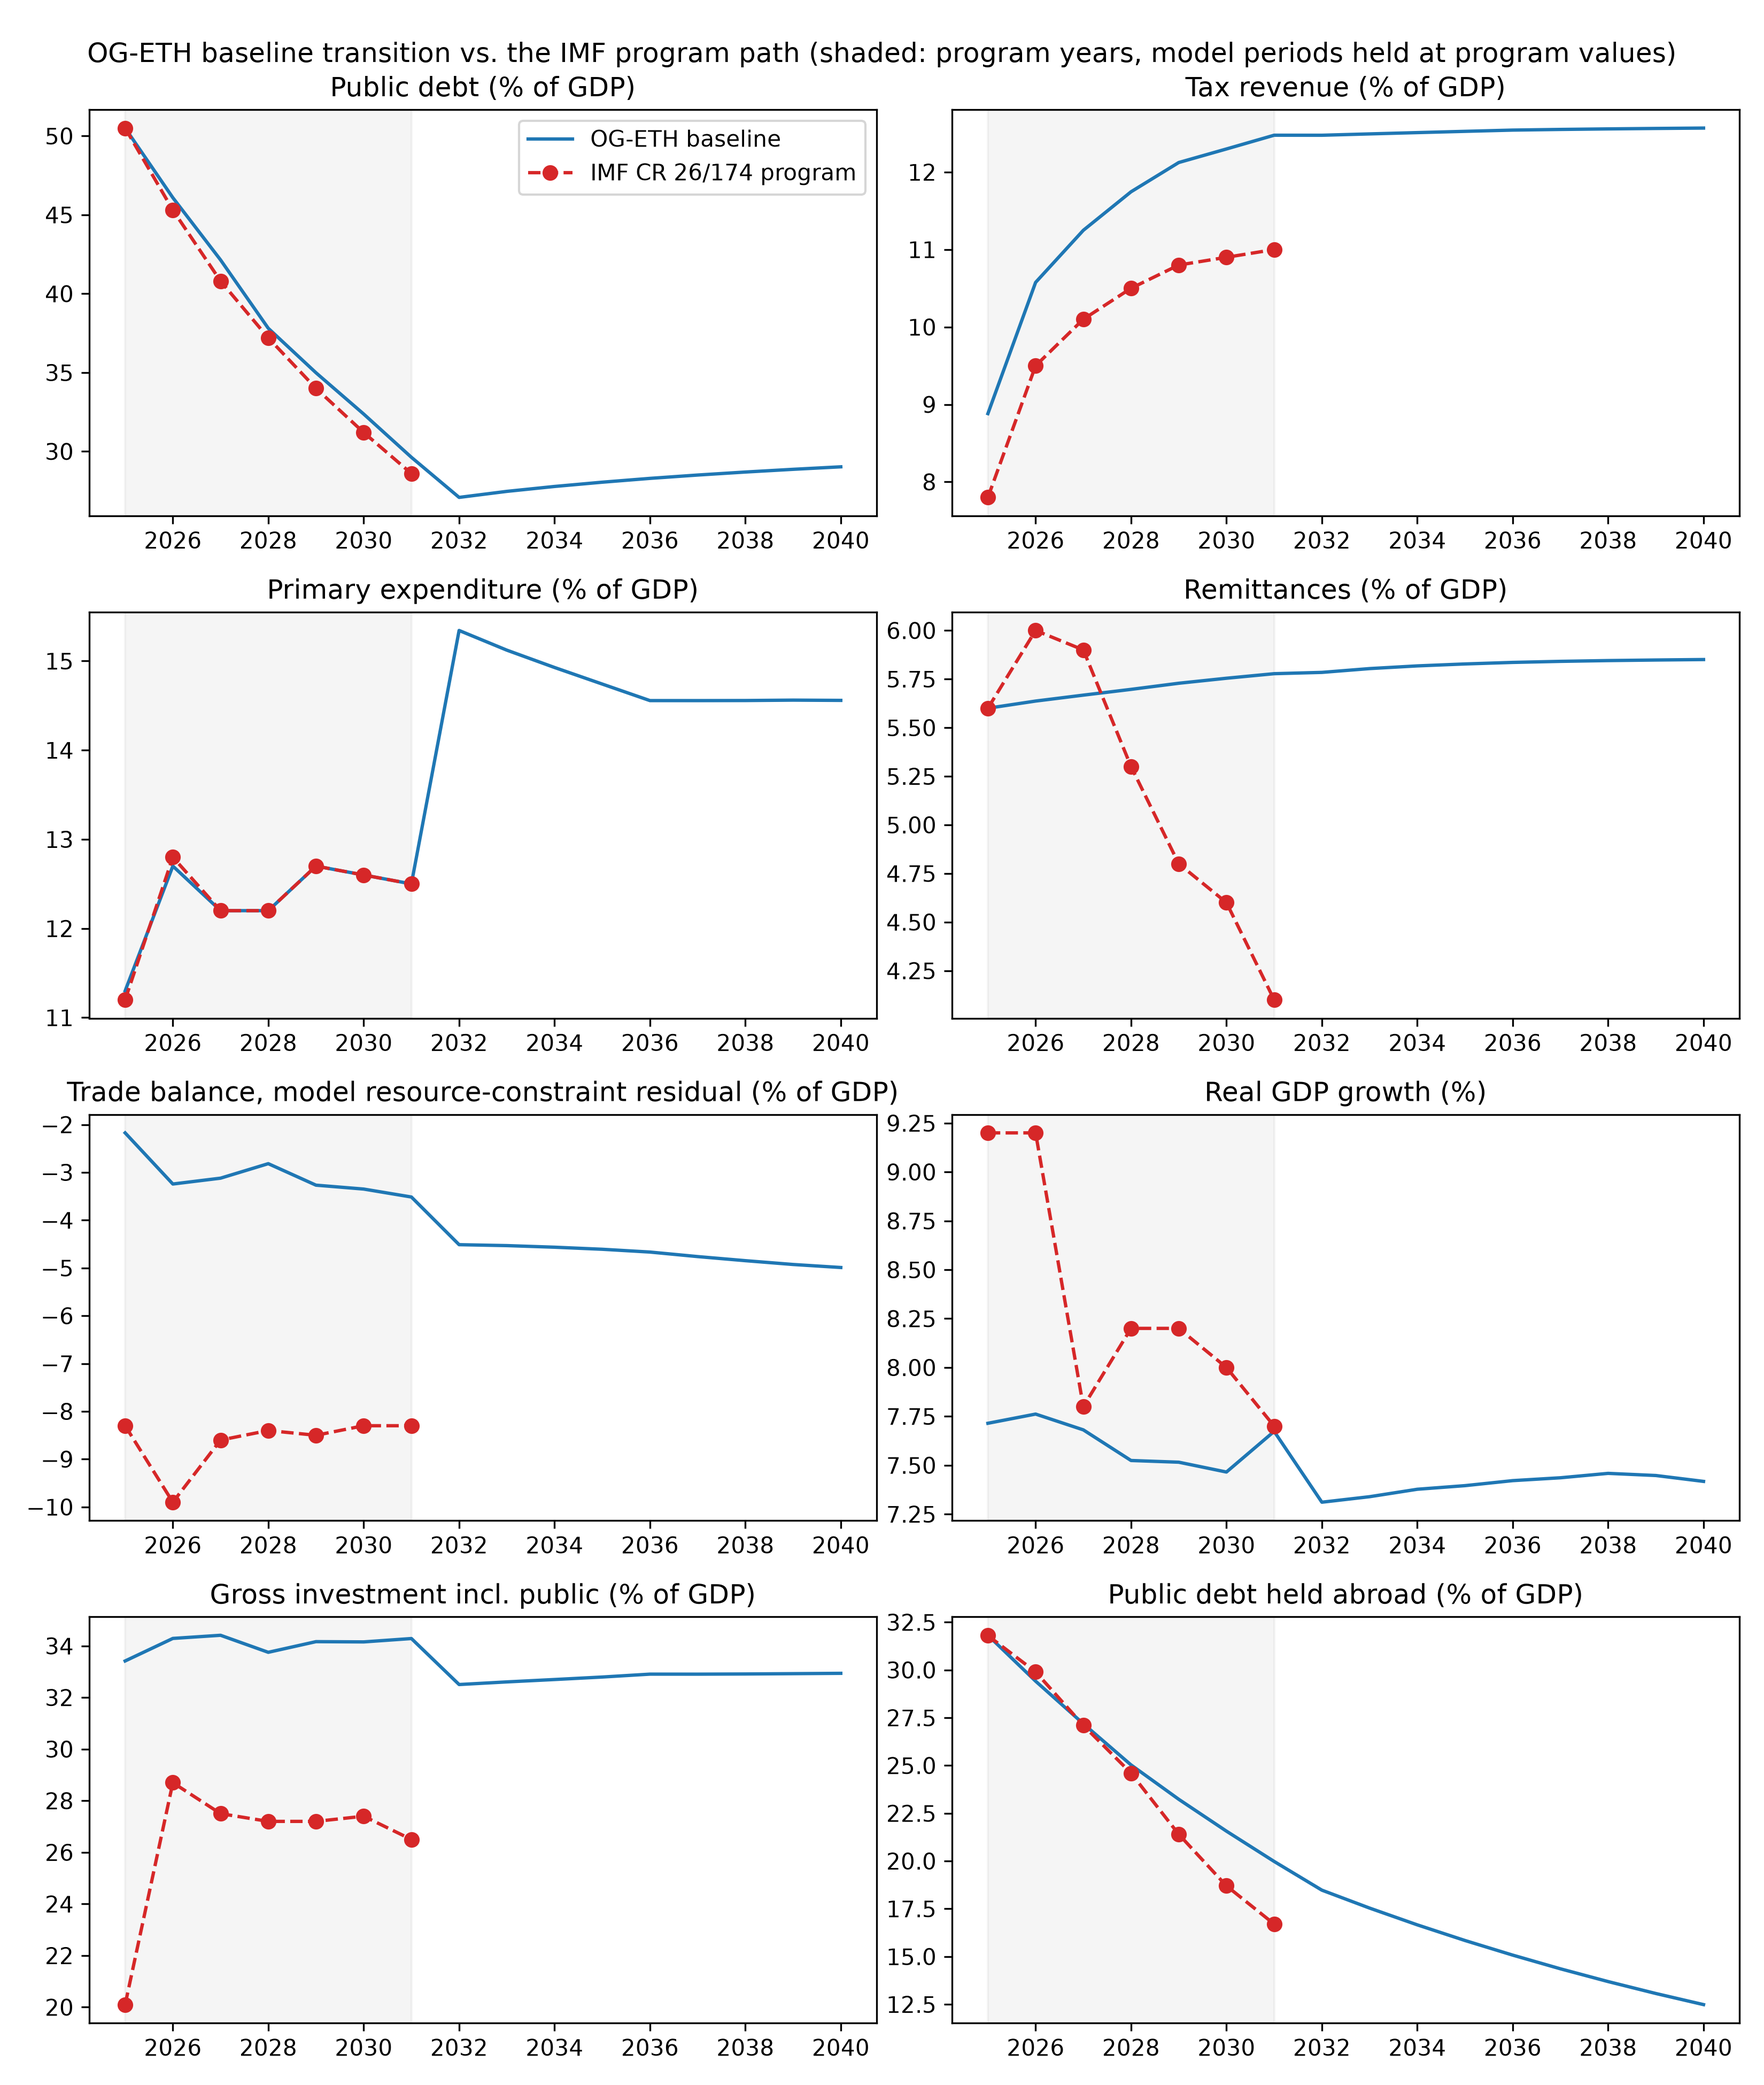
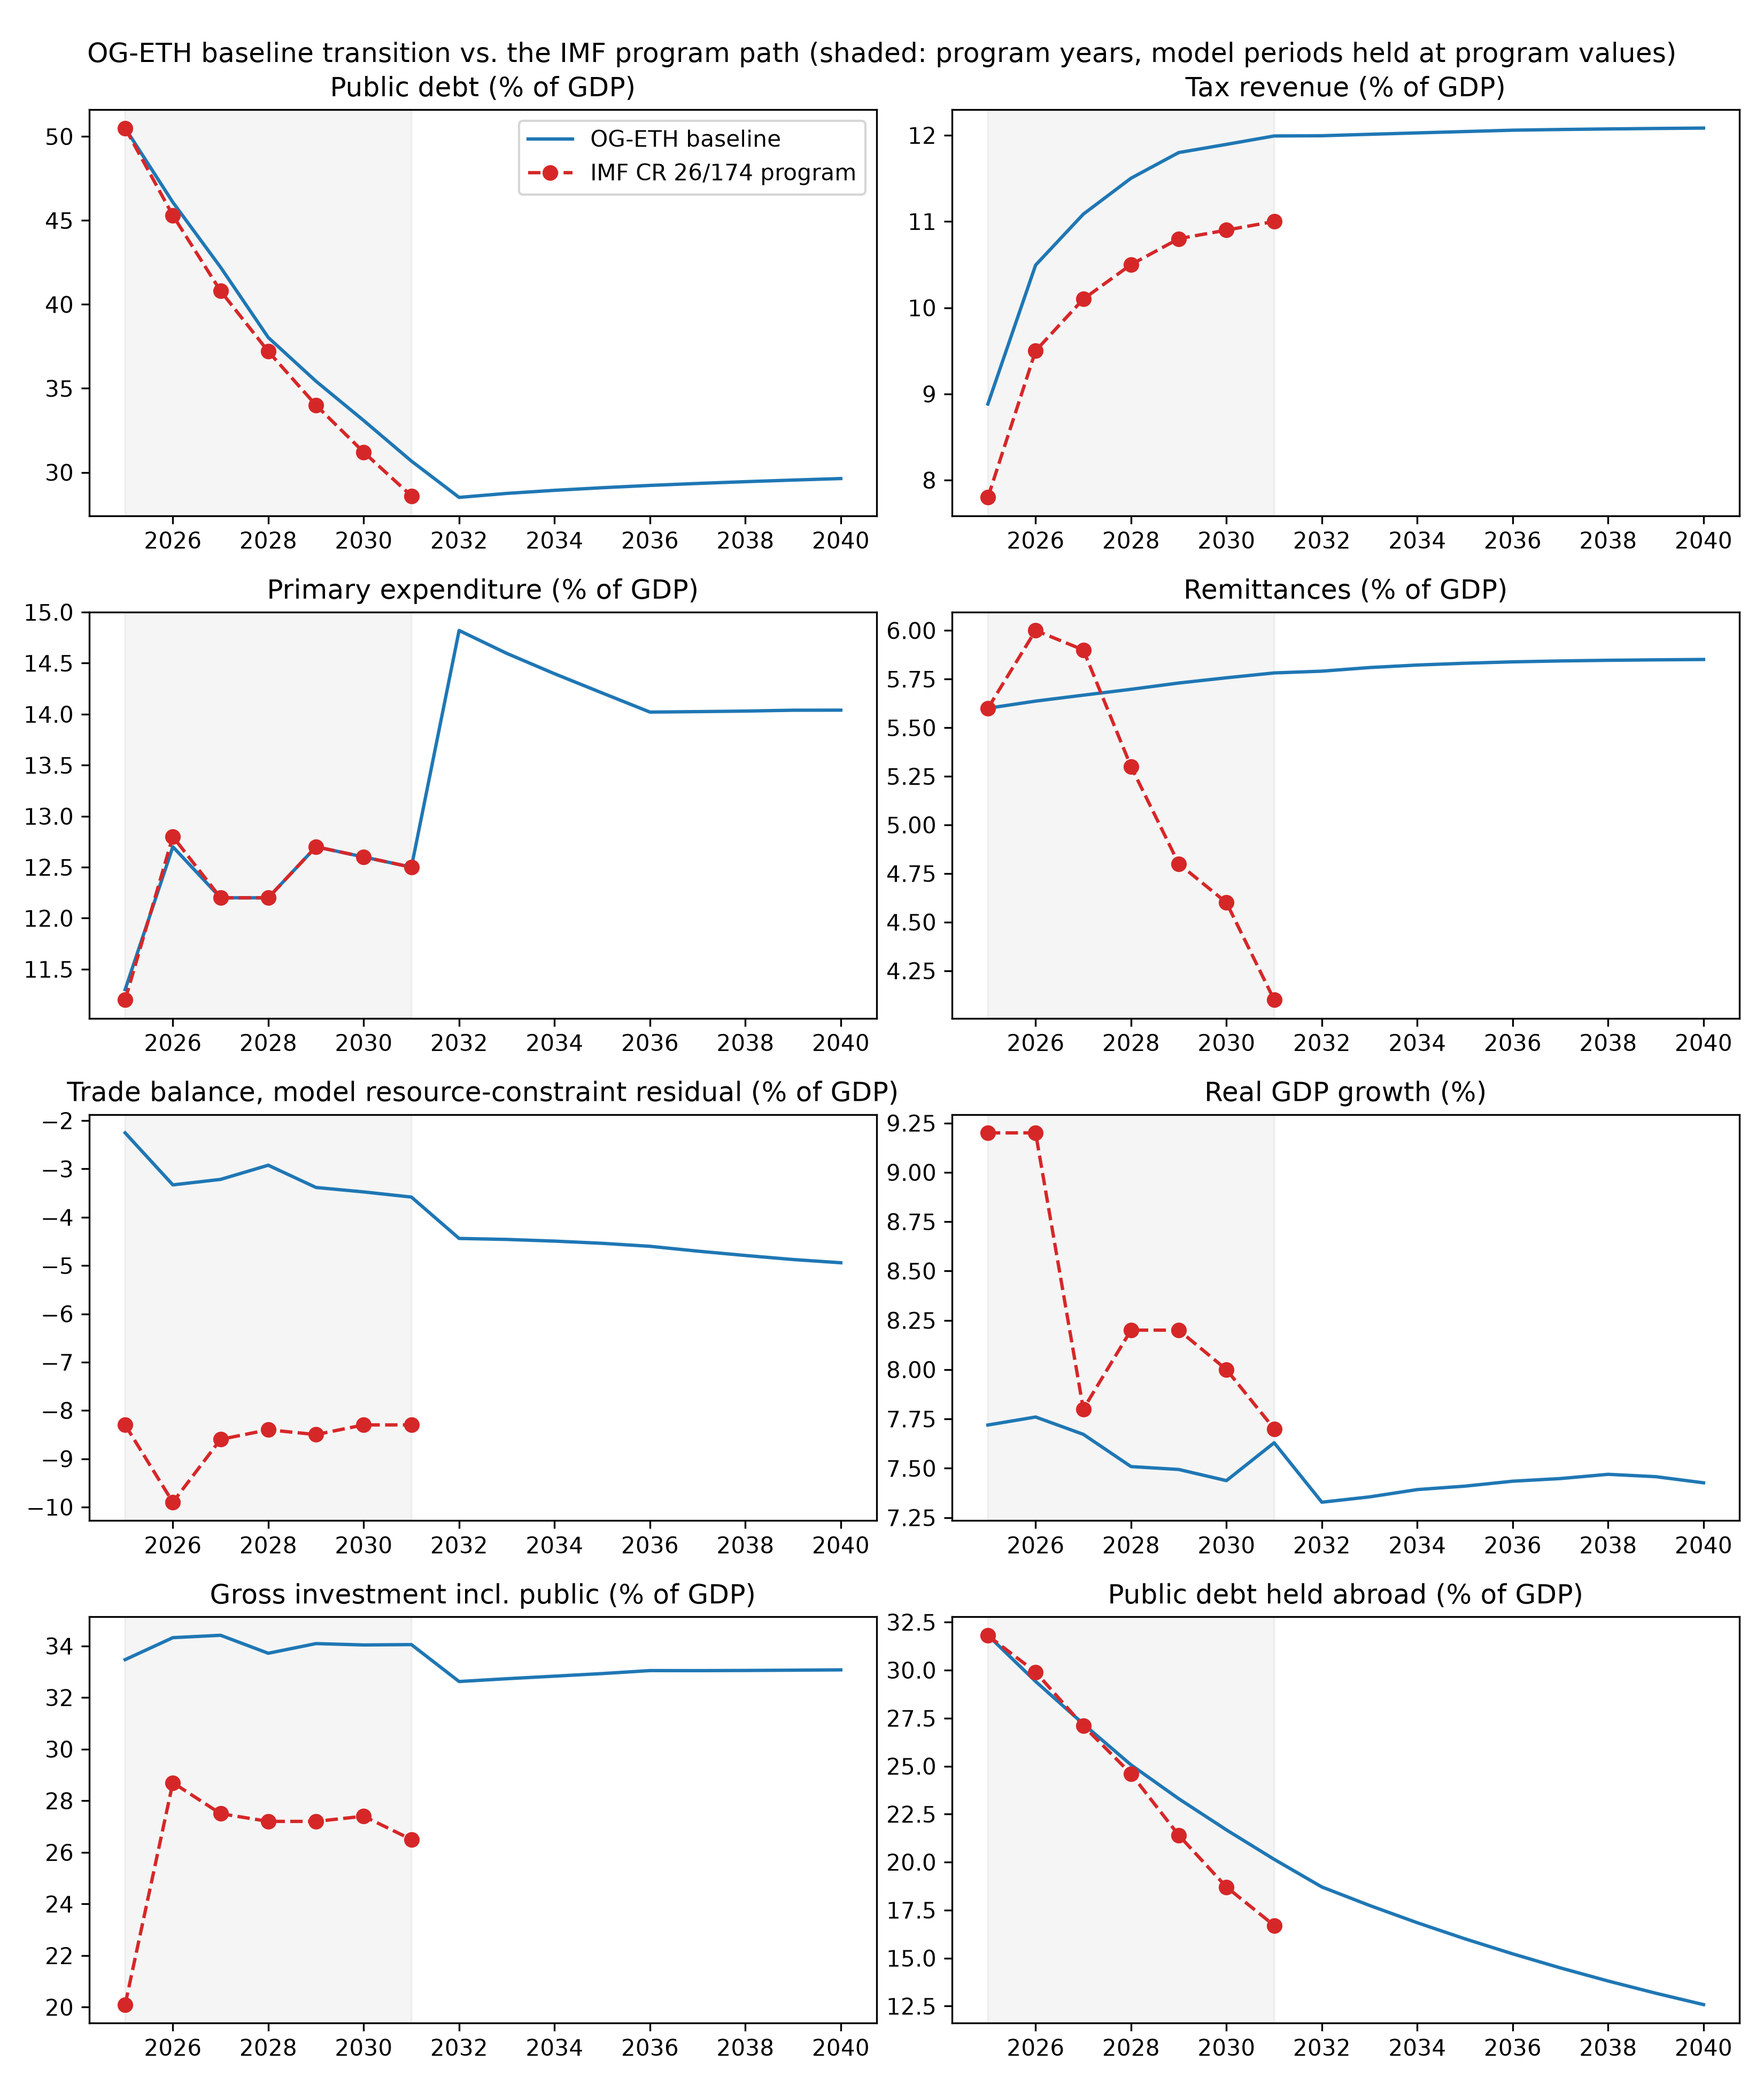
Refresh the validation table to the final run

diff --git a/docs/book/content/calibration/macro.md b/docs/book/content/calibration/macro.md
@@ -151,13 +151,13 @@ Most of the parameters on this page are only weakly identified from the data on 
 
 | Steady-state moment | OG-ETH baseline | Ethiopia data | Data source |
 |:---|:---:|:---:|:---|
-| Government debt $D/Y$ | 0.30; path 50.5 → 30.3% by FY2030/31 | 0.30 (long-run target); 50.5 → 28.6% (FY2024/25 → FY2030/31) | IMF CR 26/174, Table 1 |
-| Foreign-held debt share $D_f/D$ | 0.15; external debt 31.8 → 19.9% of GDP by FY2030/31 | 0.63 (FY2024/25); external debt 31.8 → 16.7% | IMF CR 26/174, Table 1 |
+| Government debt $D/Y$ | 0.30; path 50.5 → 30.7% by FY2030/31 | 0.30 (long-run target); 50.5 → 28.6% (FY2024/25 → FY2030/31) | IMF CR 26/174, Table 1 |
+| Foreign-held debt share $D_f/D$ | 0.15; external debt 31.8 → 20.1% of GDP by FY2030/31 | 0.63 (FY2024/25); external debt 31.8 → 16.7% | IMF CR 26/174, Table 1 |
 | Real effective rate on public debt $r_{gov}$ | −3.2 to −1.2% through FY2030/31; 2.0% long run | negative through FY2030/31 (5.2% nominal on the stock vs 8.6% deflator); ~0.8% on new external commitments | IMF CR 26/174; MoF Bulletin 56 |
 | Tax revenue $T/Y$ | 0.121; path 8.9 → 12.0% | 0.110 (FY2030/31 program); 7.8 → 11.0% | IMF CR 26/174, Table 2b |
-| Personal income tax / $Y$ | 0.014 | 0.014 (FY2024/25) | IMF SIP 2025/108 |
-| Corporate income tax / $Y$ | 0.029 | 0.017 (FY2024/25); a third of the program's revenue gains allocated here | IMF SIP 2025/108; assumption |
-| Consumption taxes / $Y$ | 0.060 | 0.039 (FY2024/25) plus two thirds of the program's revenue gains | IMF CR 26/174; assumption |
+| Personal income tax / $Y$ | 0.026; path 1.4 → 2.6% with formalization | 0.014 (FY2024/25) | IMF SIP 2025/108 |
+| Corporate income tax / $Y$ | 0.026; path 1.9 → 2.7% | 0.017 (FY2024/25); a third of the program's revenue gains allocated here | IMF SIP 2025/108; assumption |
+| Consumption taxes / $Y$ | 0.051; path 3.9 → 4.9% | 0.039 (FY2024/25) plus two thirds of the program's revenue gains | IMF CR 26/174; assumption |
 | Government consumption $G/Y$ | 0.073 (closure) | 0.059 (FY2030/31, recurrent net of interest and cash transfers) | IMF CR 26/174, Table 2b |
 | Cash transfers $TR/Y$ | 0.015 | 0.015 (FY2026/27 onward) | IMF CR 26/174 |
 | Public investment $I_g/Y$ | 0.051 | 0.051 (FY2030/31) | IMF CR 26/174, Table 2b |
@@ -169,10 +169,10 @@ Most of the parameters on this page are only weakly identified from the data on 
 | Total investment $(I+I_g)/Y$ | 0.33 | 0.20 (FY2024/25); 0.27 (program, FY2030/31) | IMF CR 26/174, Table 1 |
 | Private consumption $C/Y$ | 0.65 | 0.81 (FY2024/25; BGP ~0.65–0.70) | WDI `NE.CON.PRVT.ZS` |
 | Trade balance $NX/Y$ | −0.059 (−0.03 to −0.035 along the program) | −0.083 (goods and services, FY2024/25 and FY2030/31) | IMF CR 26/174, Table 4b |
-| Real return on capital $r$ | 0.068 | high (capital-scarce); FDI return in Africa 6.3% | model-implied MPK; UNCTAD |
-| Real GDP growth | 7.9 → 7.6% over the program | 9.2 → 7.7% | IMF CR 26/174, Table 1 |
+| Real return on capital $r$ | 0.070 | high (capital-scarce); FDI return in Africa 6.3% | model-implied MPK; UNCTAD |
+| Real GDP growth | 7.4–7.8% over the program | 9.2 → 7.7% | IMF CR 26/174, Table 1 |
 
-**What matches.**  The fiscal block is internally consistent and on the data.  The transition ({numref}`CalibVsProgram`) reproduces the program's primary expenditure exactly, its tax revenue to within a point of GDP (the model's FY2024/25 base is a point above the IMF's tax line and follows the same increments), its external debt ratio to within three points, and — with the sovereign rate on the program-implied negative real rates — **its debt ratio to within two points of GDP in every program year**, landing at 30.3 percent in FY2030/31 against 28.6, and at the 30 percent target thereafter without a jump.  Real growth runs 7.6–7.9 percent against the program's 7.7–9.2; the remittance share holds at 5.6–5.7 percent.  The capital block sits on its anchors: the capital-output ratio starts at 2.1 and settles at 2.4 against the Penn World Table's 2.2, the foreign-owned capital stock at 0.20–0.22 of GDP against the 0.24 FDI stock, and household wealth starts at the 2.15 the data imply.
+**What matches.**  The fiscal block is internally consistent and on the data.  The transition ({numref}`CalibVsProgram`) reproduces the program's primary expenditure exactly, its tax revenue to within a point of GDP (the model's FY2024/25 base is a point above the IMF's tax line and follows the same increments), its external debt ratio to within three points, and — with the sovereign rate on the program-implied negative real rates — **its debt ratio to within two points of GDP in every program year**, landing at 30.7 percent in FY2030/31 against 28.6, and at the 30 percent target thereafter without a jump.  Real growth runs 7.4–7.8 percent against the program's 7.7–9.2; the remittance share holds at 5.6–5.7 percent.  The capital block sits on its anchors: the capital-output ratio starts at 2.1 and settles at 2.4 against the Penn World Table's 2.2, the foreign-owned capital stock at 0.20–0.22 of GDP against the 0.24 FDI stock, and household wealth starts at the 2.15 the data imply.
 
 **What does not, and why.**  Two gaps remain.  *Investment* is 33–34 percent of GDP against the program's 27: in the steady state investment must replace depreciation and equip growth, $(g+\delta)K/Y \approx 0.13 \times 2.4 = 0.31$, so with the capital-output ratio already at the data the remaining difference is the model's 8 percent growth and 5 percent depreciation applied to that stock — the data's 27 percent at a similar capital-output ratio implies a lower effective depreciation or slower capital deepening than a balanced growth path allows.  *The trade deficit* is 3–3.5 percent of GDP along the program and 5.9 percent in the steady state against 8.3 percent in the data.  The model's deficit is what remittances, grants and foreign capital inflows finance net of factor payments abroad; the data's is also financed by about 3 percent of GDP a year of FDI and by official borrowing, and Ethiopia's foreign capital inflow in the model is smaller because the foreign-owned stock is already near its long-run level.  Neither gap is a parameter away: they follow from the single-capital-good, balanced-growth structure of the model, and are reported here as its limits rather than calibrated around.  The remaining rows are where they were: the long-run consumption share sits between Ethiopia's crisis-depressed current value and a balanced-growth level, and the foreign-held debt share converges from the initial 0.63 toward $\zeta_D$.
 
